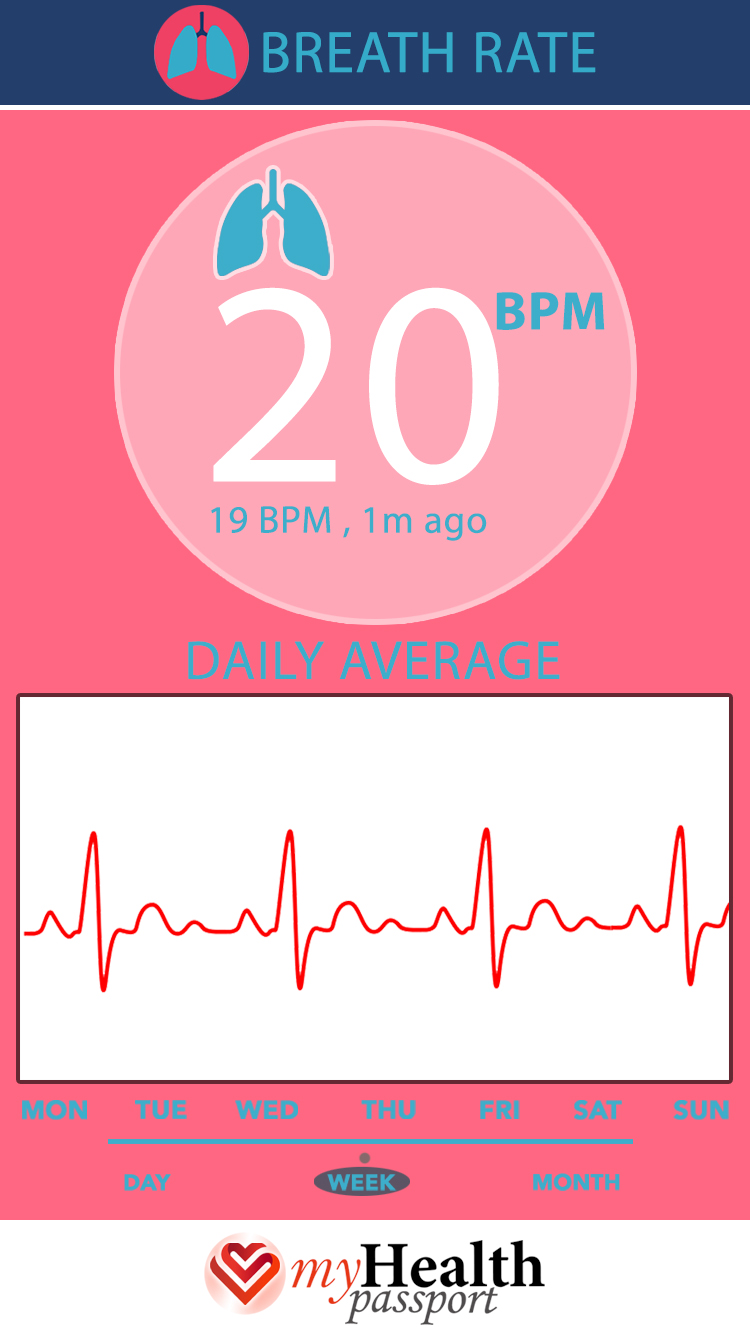
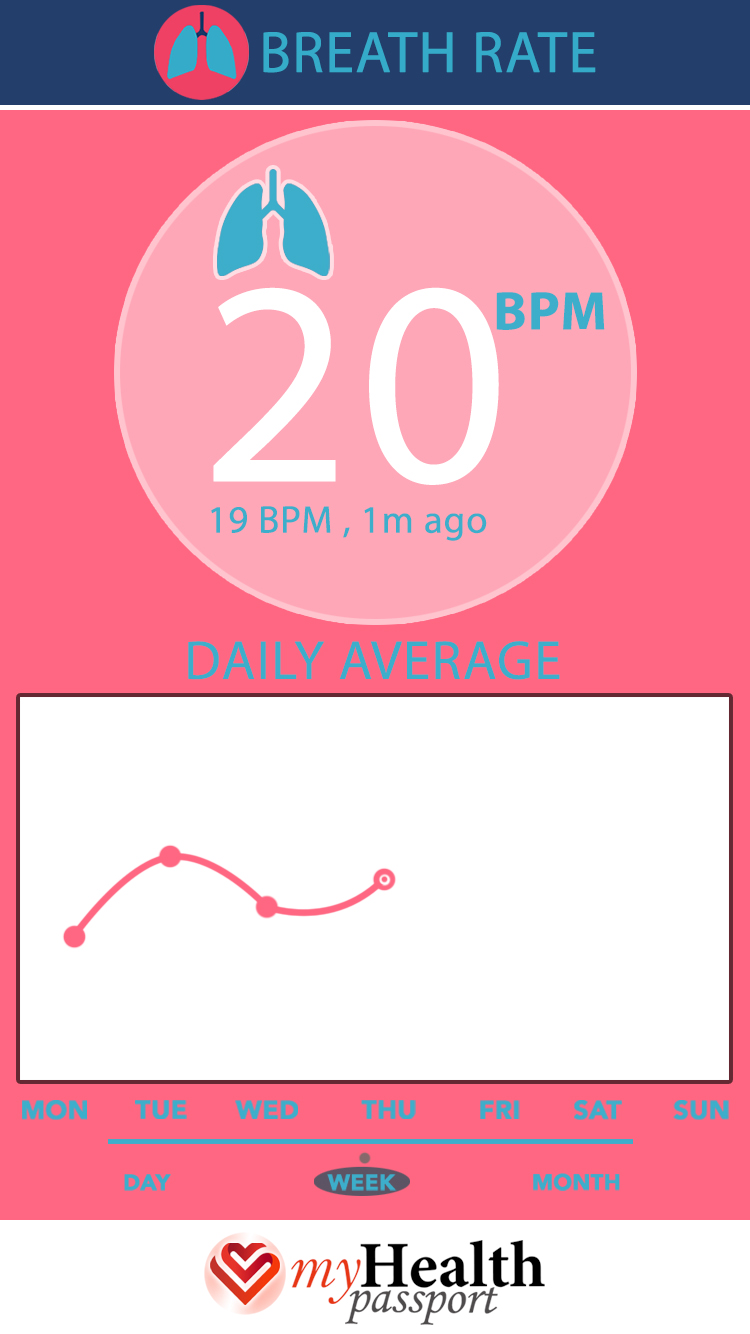
home page animations

Changed region(s): [[0.0307, 0.6147, 0.9813, 0.7376]]

diff --git a/app/HomePage/styleHome.css b/app/HomePage/styleHome.css
@@ -51,66 +51,59 @@ img.homeIcon{
     width: 4em; height: 4em;
     margin: -2.5em;
 }
-.circle-container img { display: block; width: 50%; }
-.deg0 { 
+.circle-container img {
     animation-name: logos_zoomout;
     animation-duration: 2000ms;
-    animation-delay: 2000ms;
+    animation-delay: 750ms;
     animation-iteration-count: 1;
+    animation-fill-mode: forwards;
+    opacity: 0;
+
+    display: block; width: 50%; }
+.deg0 { 
+    
     transform: rotate(2deg) translate(8em) rotate(-2deg);} /* 12em = half the width of the wrapper */
 .deg45 { 
-    animation-name: logos_zoomout;
-    animation-duration: 2000ms;
-    animation-delay: 2000ms;
-    animation-iteration-count: 1;
+    
     transform: rotate(48deg) translate(11em) rotate(-48deg); }
 .deg90 { 
-    animation-name: logos_zoomout;
-    animation-duration: 2000ms;
-    animation-delay: 2000ms;
-    animation-iteration-count: 1;
+    
     transform: rotate(90deg) translate(9em) rotate(-90deg); }
 .deg135 { 
-    animation-name: logos_zoomout;
-    animation-duration: 2000ms;
-    animation-delay: 2000ms;
-    animation-iteration-count: 1;
+  
     transform: rotate(127deg) translate(10.5em) rotate(-127deg); }
 .deg180 { 
-    animation-name: logos_zoomout;
-    animation-duration: 2000ms;
-    animation-delay: 2000ms;
-    animation-iteration-count: 1;
+    
     transform: translate(-9em); }
 .deg225 { 
-    animation-name: logos_zoomout;
-    animation-duration: 2000ms;
-    animation-delay: 2000ms;
-    animation-iteration-count: 1;
+    
     transform: rotate(225deg) translate(9em) rotate(-225deg); }
 .deg270 { 
-    animation-name: logos_zoomout;
-    animation-duration: 2000ms;
-    animation-delay: 2000ms;
-    animation-iteration-count: 1;
+    
     transform: rotate(268deg) translate(9em) rotate(-268deg); }
 .deg315 { 
     transform: rotate(320deg) translate(9em) rotate(-320deg);
-    animation-name: logos_zoomout;
-    animation-duration: 2000ms;
-    animation-delay: 2000ms;
-    animation-iteration-count: 1;
+    
+   
      }
 
-
-.pulse {
+.center{
     animation-name: logos_zoomout, pulse_animation;
-    animation-duration: 1000ms, 5000ms;
-    animation-delay: 0ms, 1000ms;
+    animation-duration: 750ms, 5000ms;
+    animation-delay: 0ms, 750ms;
     transform-origin: 70% 70%, 70% 70%;
     animation-iteration-count: 1, infinite;
     animation-timing-function: linear, linear;
+    display: block;
+    margin-left: auto;
+    margin-right: auto;
+    top: 45%;
+    right: 37%;
+    position: absolute;
+    
 }
+
+
 @keyframes pulse_animation {
     0% { transform: scale(1); }
     30% { transform: scale(1); }
@@ -123,6 +116,8 @@ img.homeIcon{
 }
 
 @keyframes logos_zoomout {
-    0% { transform: scale(0); }
-    100% { transform: scale(1); }
+    0% { transform: scale(0); 
+    opacity: 1;}
+    100% { transform: scale(1);
+    opacity: 1; }
 }

diff --git a/app/HomePage/home.html b/app/HomePage/home.html
@@ -21,10 +21,11 @@
         <!-- LOGO AT THE TOP -->
     <img src="imgs/title.png" style="margin-left: auto; margin-right: auto; display: block; width:170px; height: auto" src="imgs/title.png">   
     
+    <a href='#' ><img class = "center" class ="pulse" style = "width:90px; height: auto;" src='imgs/logo_center.png'></a> 
  <div class='circle-container'>
         
 
-    <a href='#'  class='center'><img class ="pulse" style = "width:90px; height: auto;" src='imgs/logo_center.png'></a> 
+    
 
     <a href='../MedicationPage/medication.html' class='deg270'><img style = "width:115px; height: auto;" src='imgs/medication_icon.png'></a>
 
